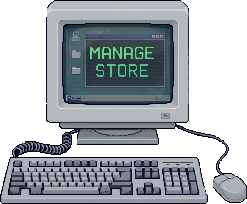
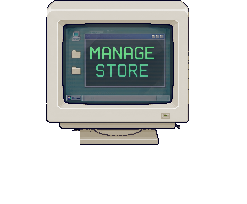
Make the computer off-white with a larger monitor and a smaller keyboard and mouse
The case is recoloured to an old PC's off-white, matched to the user's photo. The keyboard, mouse
and cables are now their own layer, so the monitor can be shown larger and the desk items
smaller, both scaled from the foot of the stand so the cables still meet it.

diff --git a/src/art/computer.ts b/src/art/computer.ts
@@ -2,44 +2,64 @@ import Phaser from 'phaser';
 import { L } from '../layout';
 
 /**
- * The shop computer, cut from the user's art at its exact pixels, recoloured from yellowed beige to light grey with
- * a brighter screen, and smoothed down to about the register's size. It comes in layers, all the same size and stacked at the same corner, so each part can be
- * animated: the body, the desktop on the screen, the window, the window's words, and the power light. The body
- * holds a dimmed light for when the light layer is hidden. Stacked, the layers are the user's art exactly.
+ * The shop computer, cut from the user's art at its exact pixels, recoloured to an old PC's off-white with a brighter
+ * screen, and smoothed down to about the register's size.
+ *
+ * It comes in layers, all cut from the same 247 × 204 picture, so each part can be animated: the desk things
+ * (keyboard, mouse and cables), the monitor's body, the desktop on its screen, the window, the window's words,
+ * and the power light. The monitor is shown a little larger than the desk things; both grow from the foot of the
+ * stand, where the cables tuck behind it, so they still meet.
  */
 const ART_W = 247;
 const ART_H = 204;
-/** Game pixels per art pixel: close to the register's size. */
-const SCALE = 0.36;
-const g = (v: number) => v * SCALE;
+/** Game pixels per art pixel for each group. */
+const MONITOR_SCALE = 0.41;
+const DESK_SCALE = 0.32;
+/** The foot of the stand, in the art's pixels: both groups scale from here. */
+const ANCHOR = { x: 120, y: 146 };
+/** What each group covers in the art, for working out the whole computer's size. */
+const MONITOR_ART = { x0: 47, y0: 1, x1: 193, y1: 147 };
+const DESK_ART = { x0: 8, y0: 128, x1: 247, y1: 204 };
 
-export const COMPUTER_LAYERS = ['body', 'desktop', 'window', 'words', 'led'] as const;
+export const COMPUTER_LAYERS = ['desk', 'body', 'desktop', 'window', 'words', 'led'] as const;
 type Layer = (typeof COMPUTER_LAYERS)[number];
+const scaleOf = (layer: Layer) => (layer === 'desk' ? DESK_SCALE : MONITOR_SCALE);
+
 /** The art as loaded, at its own pixels. */
 export const computerSource = (layer: Layer) => `computer_${layer}`;
 /** The art smoothed to its size on screen. */
 const computerKey = (layer: Layer) => `computer_${layer}_shown`;
 
+// Where the anchor lands, measured from the top-left of everything
+const left = Math.min(ANCHOR.x - (ANCHOR.x - MONITOR_ART.x0) * MONITOR_SCALE, ANCHOR.x - (ANCHOR.x - DESK_ART.x0) * DESK_SCALE);
+const right = Math.max(ANCHOR.x + (MONITOR_ART.x1 - ANCHOR.x) * MONITOR_SCALE, ANCHOR.x + (DESK_ART.x1 - ANCHOR.x) * DESK_SCALE);
+const top = ANCHOR.y - (ANCHOR.y - MONITOR_ART.y0) * MONITOR_SCALE;
+const bottom = ANCHOR.y + (DESK_ART.y1 - ANCHOR.y) * DESK_SCALE;
+const anchorX = ANCHOR.x - left;
+const anchorY = ANCHOR.y - top;
+/** A point in the monitor's art, in game pixels from the computer's top-left corner. */
+const onMonitor = (x: number, y: number) => ({ x: anchorX + (x - ANCHOR.x) * MONITOR_SCALE, y: anchorY + (y - ANCHOR.y) * MONITOR_SCALE });
+
+const screenTopLeft = onMonitor(64, 24);
 /** Where the computer's parts sit, in game pixels from its top-left corner. */
 export const COMPUTER = {
-  w: g(ART_W),
-  h: g(ART_H),
-  monitorCentreX: g(118),
-  screen: { x: g(64), y: g(24), w: g(110), h: g(79) },
-  window: { x: g(85), y: g(34), w: g(81), h: g(54) },
-  led: { x: g(161), y: g(113), w: g(9), h: g(6) },
+  w: right - left,
+  h: bottom - top,
+  monitorCentreX: onMonitor(120, 0).x,
+  screen: { x: screenTopLeft.x, y: screenTopLeft.y, w: 110 * MONITOR_SCALE, h: 79 * MONITOR_SCALE },
 };
 
 /**
  * Draws every layer at the screen's own resolution, smoothed, so it stays clean at a size that isn't a whole
- * number of art pixels. Every layer gets the same scaling, so they still line up exactly.
+ * number of art pixels. Layers in the same group get the same scaling, so they still line up exactly.
  */
 export function createComputer(scene: Phaser.Scene): void {
   const r = L.renderScale;
   for (const layer of COMPUTER_LAYERS) {
     const key = computerKey(layer);
     if (scene.textures.exists(key)) scene.textures.remove(key);
-    const tex = scene.textures.createCanvas(key, Math.round(ART_W * SCALE * r), Math.round(ART_H * SCALE * r))!;
+    const s = scaleOf(layer);
+    const tex = scene.textures.createCanvas(key, Math.round(ART_W * s * r), Math.round(ART_H * s * r))!;
     const c = tex.getContext();
     c.imageSmoothingEnabled = true;
     c.imageSmoothingQuality = 'high';
@@ -51,6 +71,7 @@ export function createComputer(scene: Phaser.Scene): void {
 
 export interface ComputerParts {
   container: Phaser.GameObjects.Container;
+  desk: Phaser.GameObjects.Image;
   body: Phaser.GameObjects.Image;
   desktop: Phaser.GameObjects.Image;
   window: Phaser.GameObjects.Image;
@@ -58,11 +79,14 @@ export interface ComputerParts {
   led: Phaser.GameObjects.Image;
 }
 
-/** Puts the computer together at (x, y), with each part kept so it can be animated. */
+/** Puts the computer together with its top-left at (x, y), with each part kept so it can be animated. */
 export function addComputer(scene: Phaser.Scene, x: number, y: number): ComputerParts {
-  const [body, desktop, window, words, led] = COMPUTER_LAYERS.map((layer) =>
-    scene.add.image(0, 0, computerKey(layer)).setOrigin(0).setScale(1 / L.renderScale),
-  );
-  const container = scene.add.container(x, y, [body, desktop, window, words, led]);
-  return { container, body, desktop, window, words, led };
+  const [desk, body, desktop, window, words, led] = COMPUTER_LAYERS.map((layer) => {
+    const s = scaleOf(layer);
+    // Each layer's picture starts at the art's corner, so place that corner where the anchor's scaling puts it.
+    const snap = (v: number) => Math.round(v * L.renderScale) / L.renderScale;
+    return scene.add.image(snap(anchorX - ANCHOR.x * s), snap(anchorY - ANCHOR.y * s), computerKey(layer)).setOrigin(0).setScale(1 / L.renderScale);
+  });
+  const container = scene.add.container(x, y, [desk, body, desktop, window, words, led]);
+  return { container, desk, body, desktop, window, words, led };
 }
